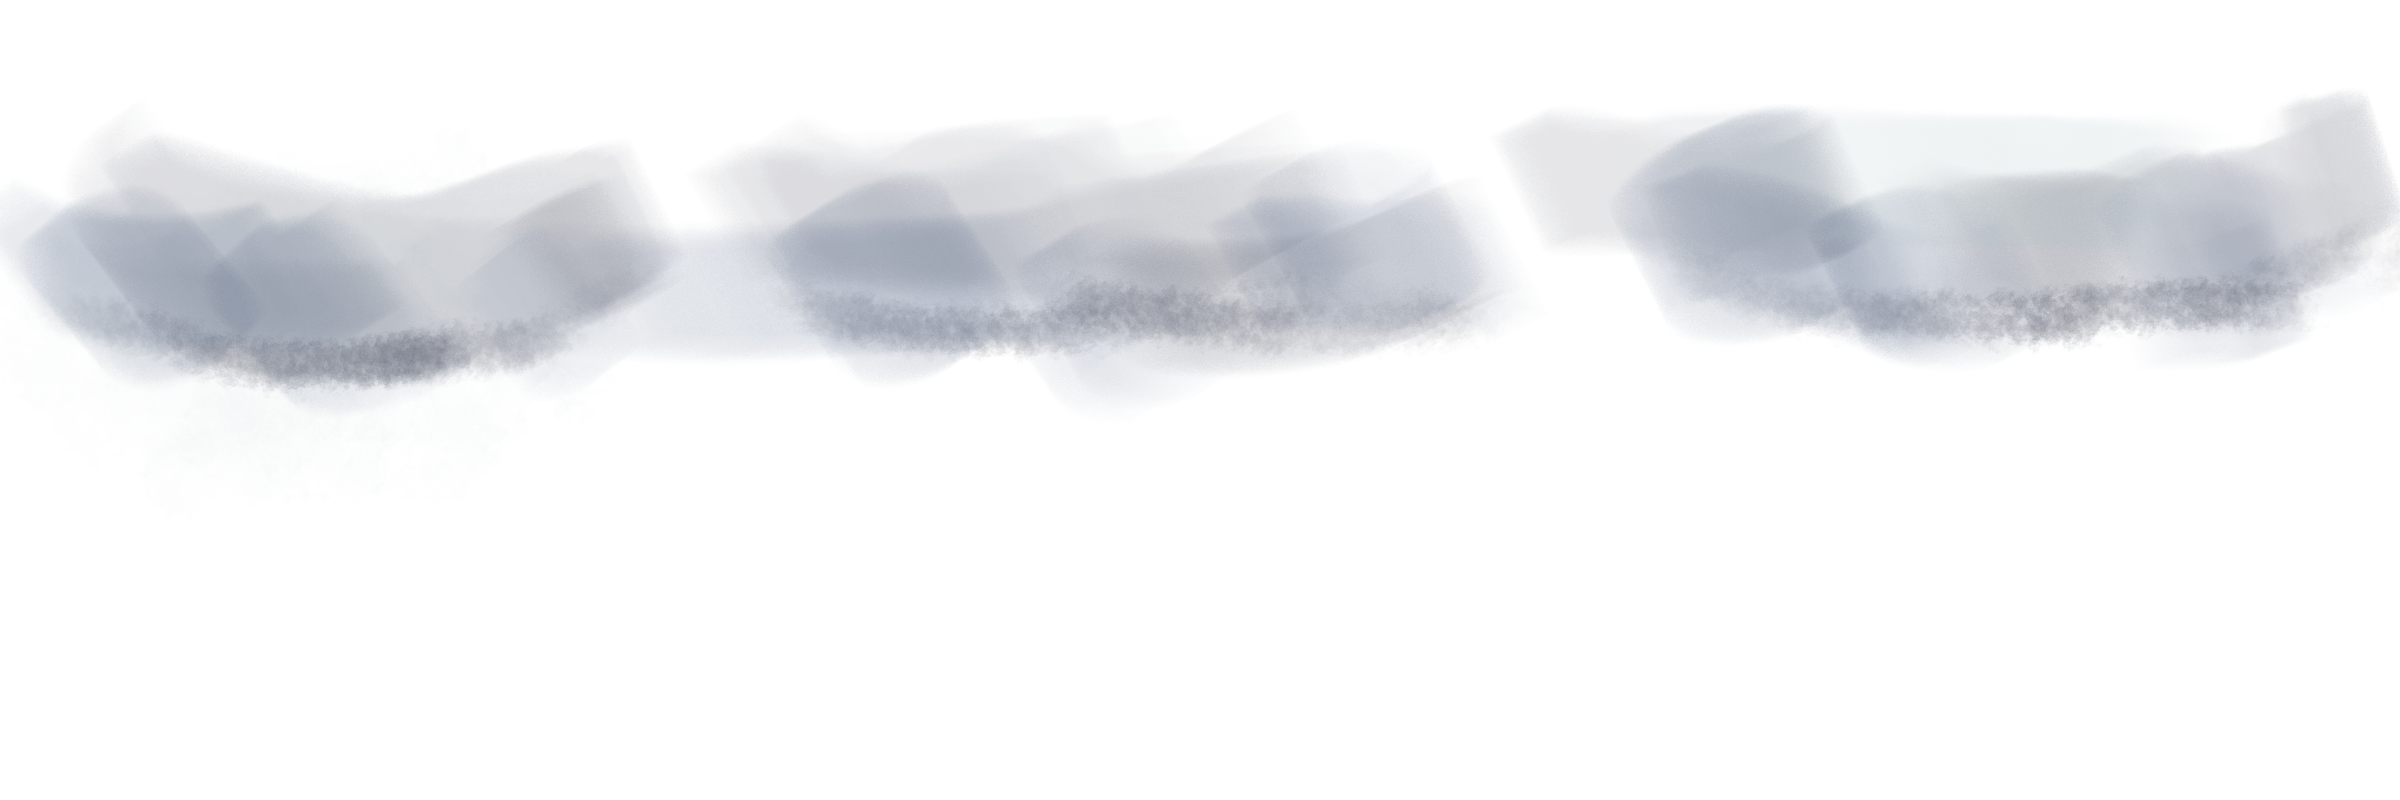
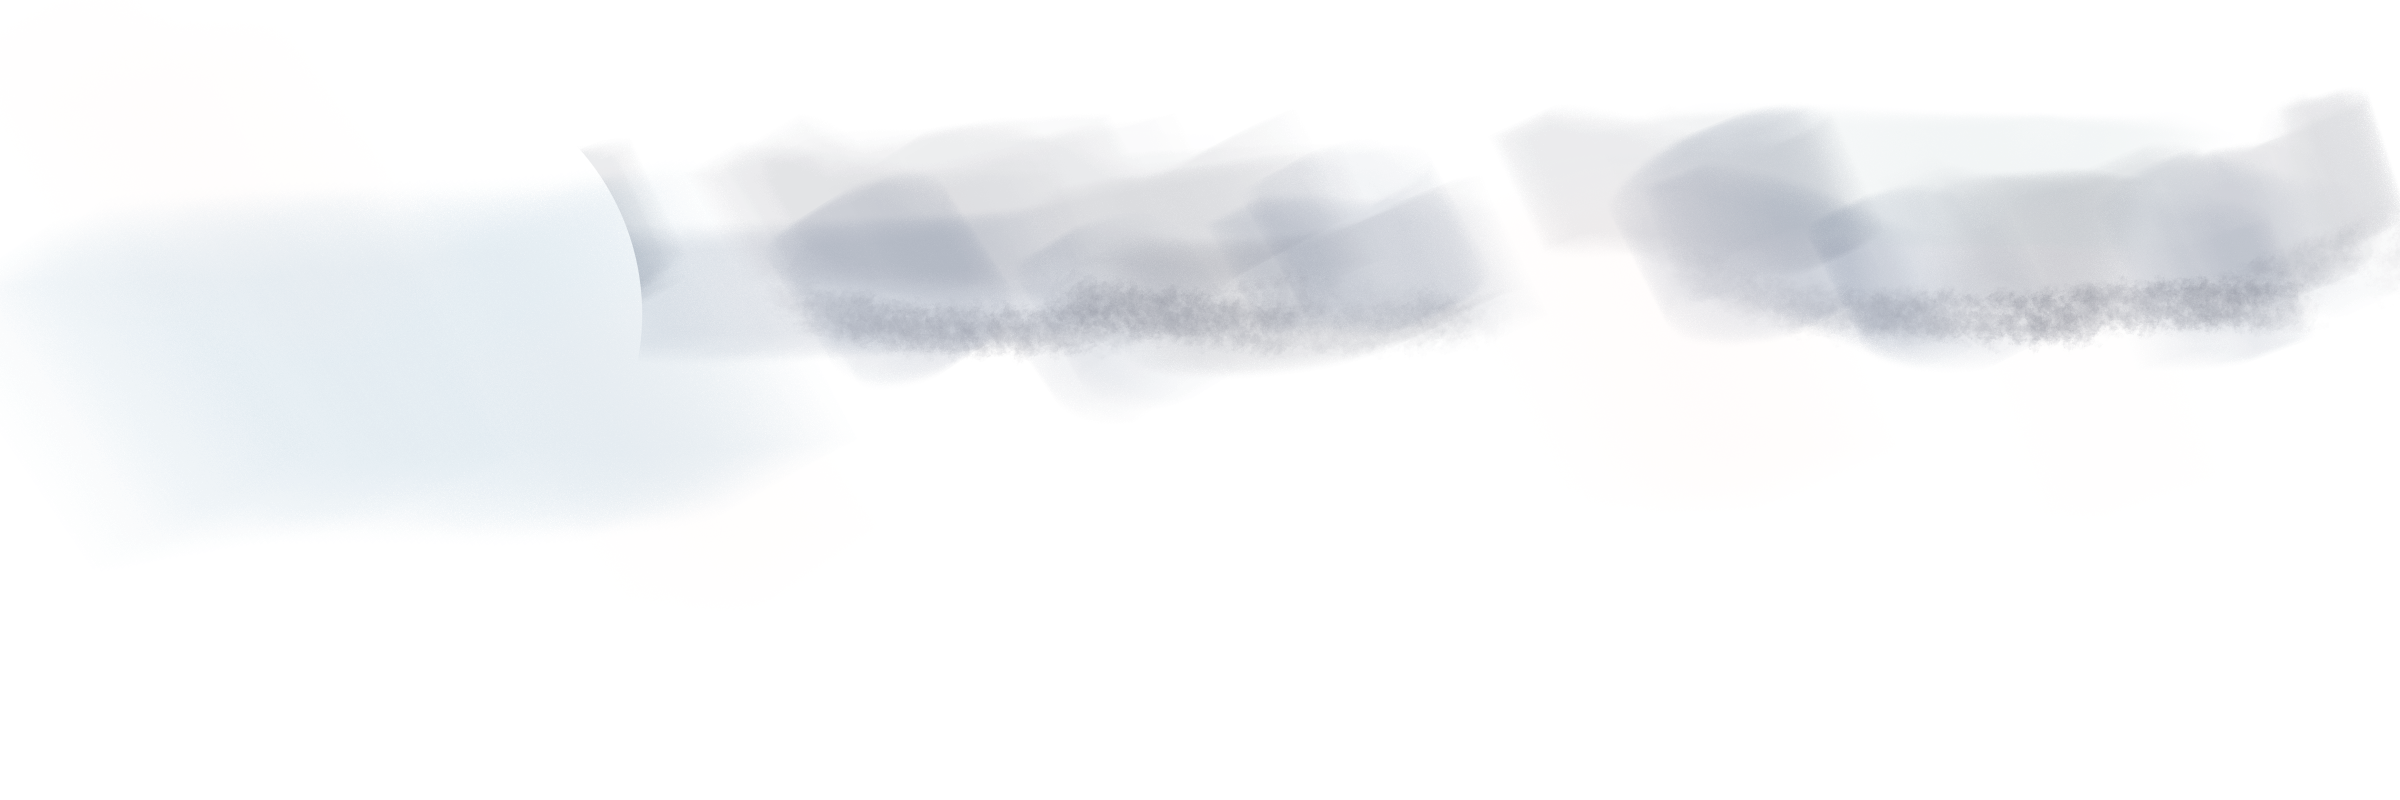
clouds updated to have smoother texture

Changed region(s): [[0.0, 0.1875, 0.2812, 0.5938]]

diff --git a/src/interactive_background.py b/src/interactive_background.py
@@ -295,14 +295,14 @@ class Background():
         self.image_bkg = pygame.image.load(self.img_path).convert_alpha()
         self.image_floor = pygame.image.load(self.img_path_2).convert_alpha()
         self.image_clouds = pygame.image.load(self.img_path_3).convert_alpha()
-        self.cloud_pos_x = 0
+        self.cloud_pos_x = -800
 
 
 
     def update(self):
-        self.cloud_pos_x += 50
-        if self.cloud_pos_x >= 1200:
-            self.cloud_pos_x = -800
+        self.cloud_pos_x += 10
+        if self.cloud_pos_x >= 1800:
+            self.cloud_pos_x = -2400
 
 
     def draw(self, screen):
